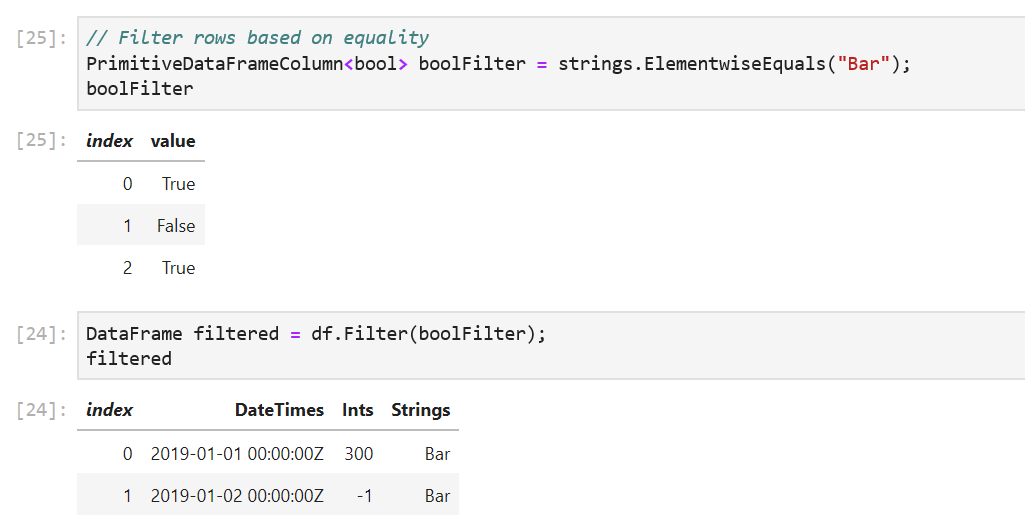
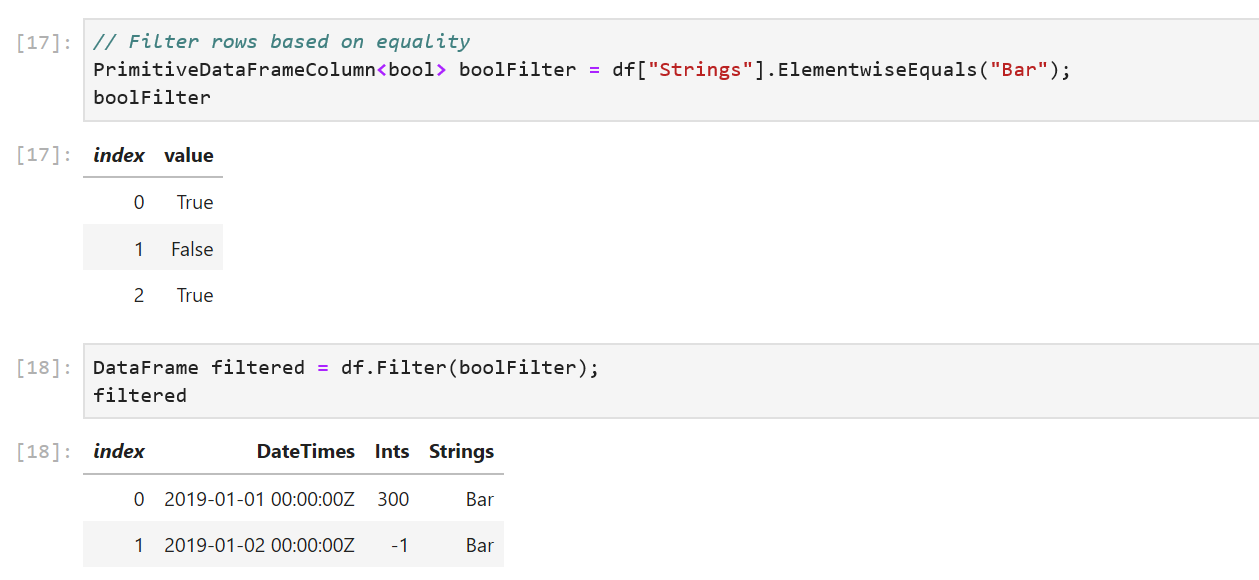
Update filter example

diff --git a/2019/11-Nov/DataFrame/DataFramePreview.md b/2019/11-Nov/DataFrame/DataFramePreview.md
@@ -158,12 +158,12 @@ Finally, let's wrap up by looking at the `Filter`, `Sort` and `GroupBy` methods:
 
 ``` csharp
 // Filter rows based on equality
-PrimitiveDataFrameColumn<bool> boolFilter = strings.ElementwiseEquals("Bar");
+PrimitiveDataFrameColumn<bool> boolFilter = df["Strings"].ElementwiseEquals("Bar");
 DataFrame filtered = df.Filter(boolFilter);
 ```
  ![DataFrame Filter](DataFrameFilter.PNG)
 
-`ElementwiseEquals` returns a `PrimitiveDataFrameColumn<bool>` where each value in `strings` that equals `"Bar"` is set to `true`. In the `df.Filter` call, each row corresponding to a `true` value in `boolFilter` selects a row out of `df`. The resulting `DataFrame` contains only these rows.
+`ElementwiseEquals` returns a `PrimitiveDataFrameColumn<bool>` where each value in `Strings` that equals `"Bar"` is set to `true`. In the `df.Filter` call, each row corresponding to a `true` value in `boolFilter` selects a row out of `df`. The resulting `DataFrame` contains only these rows.
 
 ```csharp
 // Sort our dataframe using the Ints column
